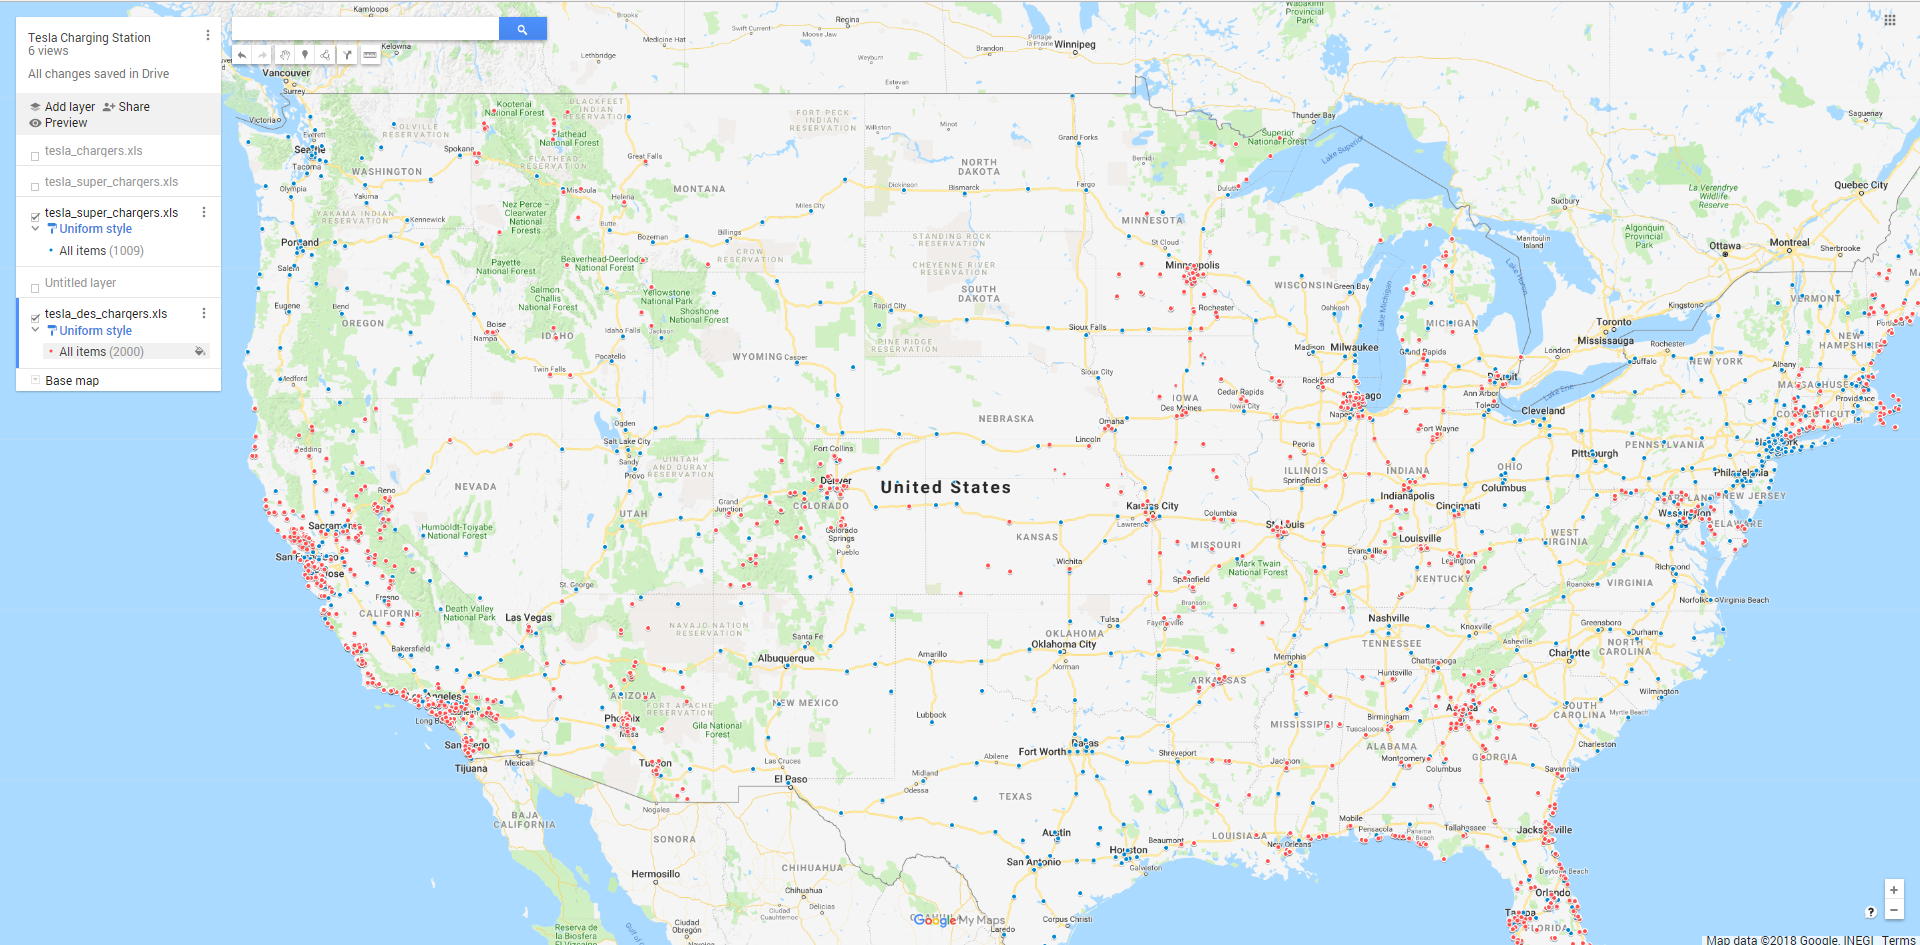
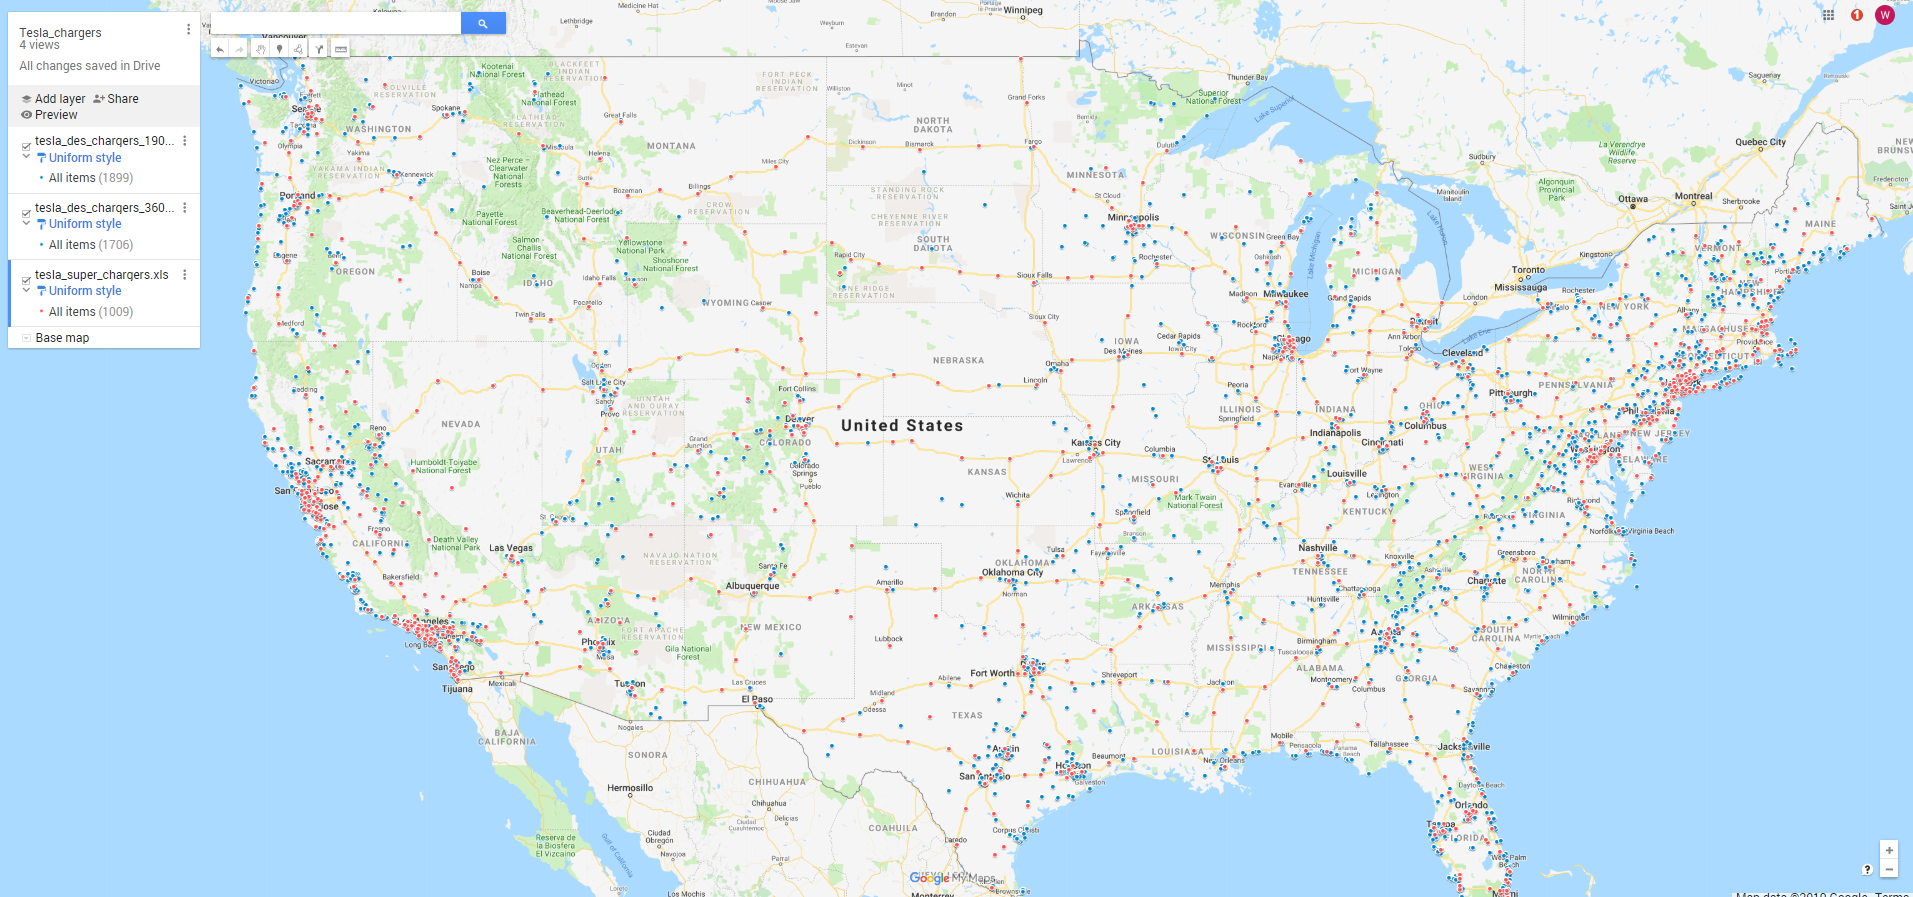
fix map

diff --git a/_posts/2018-12-07-Tesla_chargers.md b/_posts/2018-12-07-Tesla_chargers.md
@@ -15,7 +15,7 @@ article_header:
   theme: dark
   background_color: '#ffffff'
   background_image:
-    src: https://img.vim-cn.com/b5/8ffebe4387c5e66c15e62360a81733307a4d15.png
+    src: https://img.vim-cn.com/00/5be9e38bc749ac02d3a2903294de538ce2f3fd.png
     gradient: 'linear-gradient(0deg, rgba(0, 0, 0 , .7), rgba(0, 0, 0, .7))'
 ---
 源起于2018年[MCM\ICM](https://www.comap.com/undergraduate/contests/mcm/contests/2018/problems/)的D题，没有数据是很麻烦的，所以数据就只能自己爬取了，首先就是Tesla的充电桩的地理信息，最近尝试了下，发现没有之前想的那么难
@@ -142,7 +142,7 @@ print('Finished,totally got %d Charger Station,and %d Error'% (data_got,data_err
 
 ## 结果
 
-程序大概要跑几分钟，爬下来的数据大概是4000+条，最后在[Google MAP](https://www.google.com/maps/d/edit?hl=en&hl=en&mid=1Txaoldp6_ZeG7_rwjwO1IW8zB66107oW&ll=36.200869445648266%2C-98.56588939157513&z=5)画出来就是下面这样， 这里也把即将建成的充电站画了进来，不过充电桩数目为0![1544247339926](https://img.vim-cn.com/b5/8ffebe4387c5e66c15e62360a81733307a4d15.png)
+程序大概要跑几分钟，爬下来的数据大概是4000+条，最后在[Google MAP](https://drive.google.com/open?id=15hRhkZiVIw3mHJHJEQ00SQHQJBDaHsWV&usp=sharing)画出来就是下面这样， 这里也把即将建成的充电站画了进来，不过充电桩数目为0![1544247339926](https://img.vim-cn.com/00/5be9e38bc749ac02d3a2903294de538ce2f3fd.png)
 其中Super Chargers为蓝色，Destination Chargers为红色
 
 ### ECharts.js可视化
